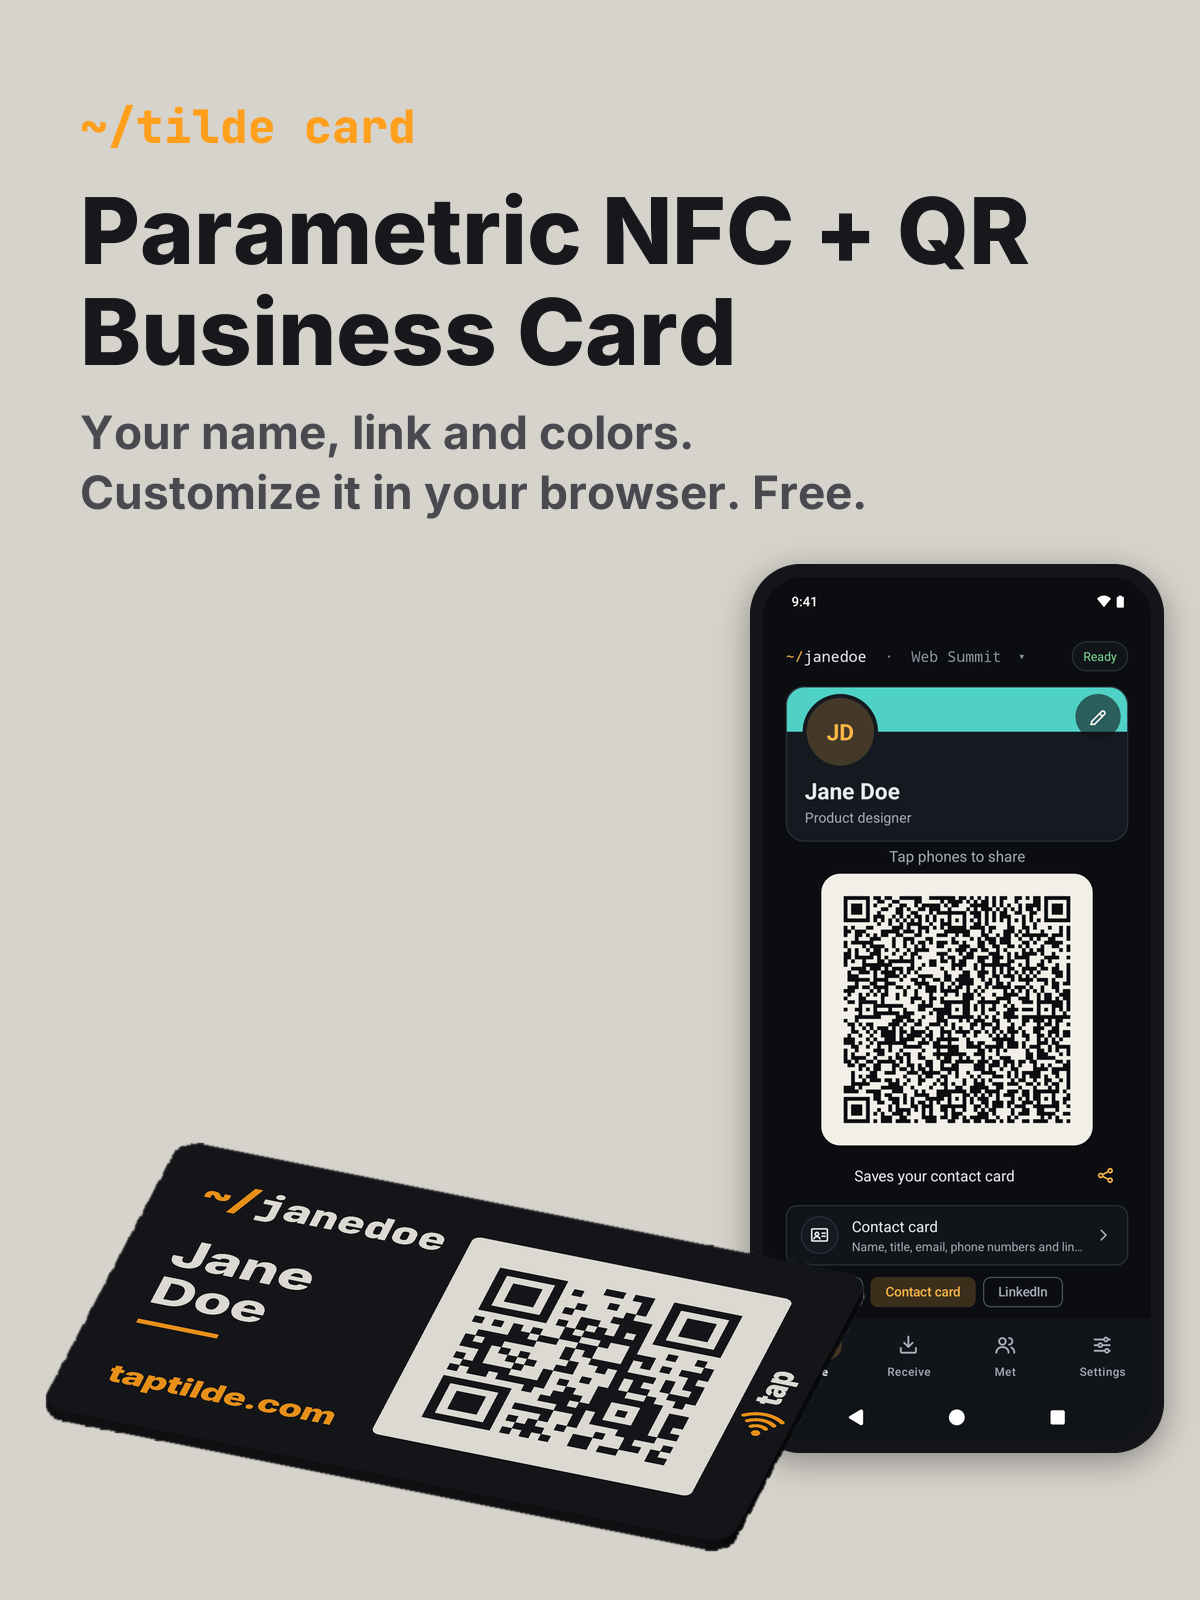
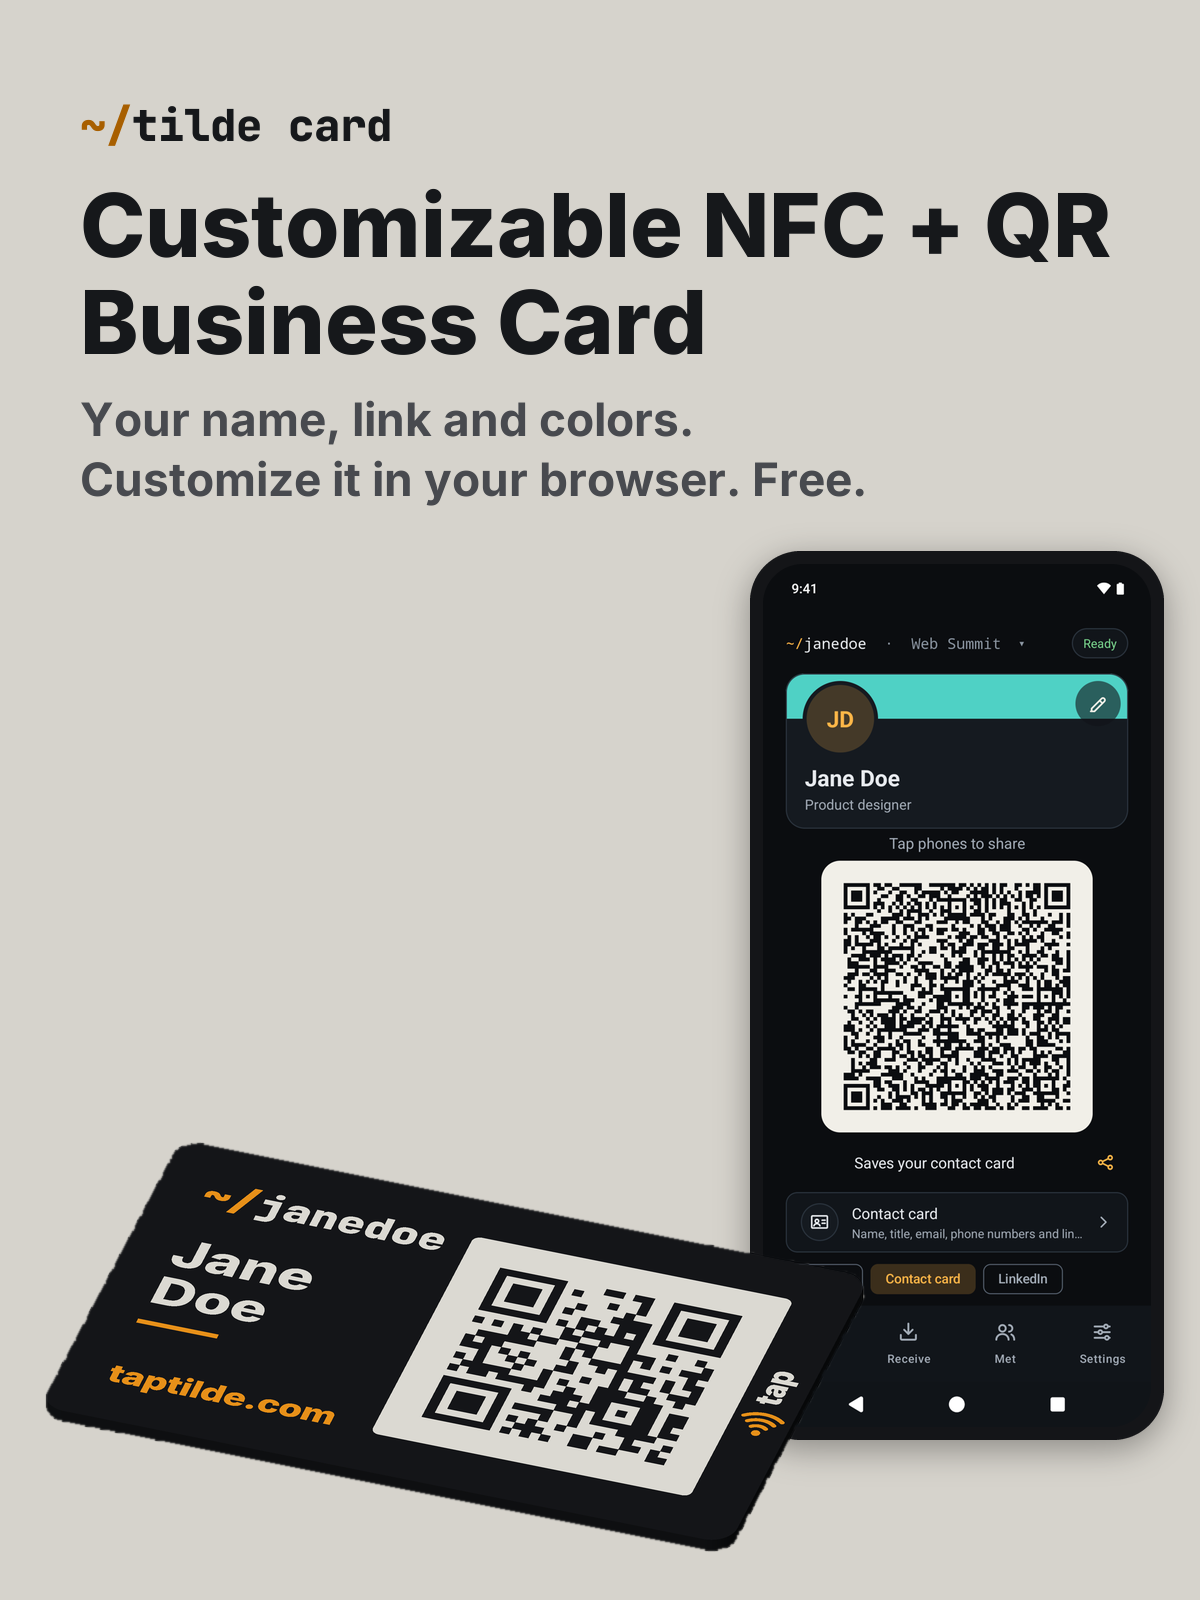
MakerWorld covers and pictures: "Customizable" and Tilde orange (D4, brand kit)
- Covers: the title says "Customizable NFC + QR Business Card" (D4) instead of
  "Parametric", and shrinks to fit its width. The ~/tilde card line uses the
  on-light wordmark (~/ in #a85f00, the name in ink) instead of the card's
  amber, which was 1.4:1 on the beige.
- 05-sticker.png: the step numbers are Tilde orange for light grounds (#a85f00,
  white digits) and the pocket outlines Tilde orange (#ffb547) on the dark
  card. The card's own colors in the renders are unchanged.
- make_listing_images.py: phone() also takes an image (for the video).

Changed region(s): [[0.0617, 0.0938, 0.9867, 0.9062], [0.0617, 0.0625, 0.37, 0.0938]]

diff --git a/scripts/make_covers.py b/scripts/make_covers.py
@@ -29,9 +29,10 @@ W, H = 1600, 1200
 BACKGROUND = (214, 211, 204)  # render_preview.py's background
 INK = (22, 24, 27)            # #16181b, the card's black
 SUBTLE = (72, 74, 79)         # the subtitle's dark gray
-AMBER = (255, 159, 28)        # #ff9f1c
-BRAND = "~/tilde card"
-TITLE = ["Parametric NFC + QR", "Business Card"]
+AMBER = (255, 159, 28)        # #ff9f1c, the card's filament amber (renders only)
+ORANGE_DEEP = (168, 95, 0)    # #a85f00, Tilde orange on light grounds (tilde-media/brand/BRAND.md)
+BRAND = ("~/", "tilde card")  # the on-light wordmark: ~/ in deep orange, the name in ink
+TITLE = ["Customizable NFC + QR", "Business Card"]
 SUBTITLE = ["Your name, link and colors.", "Customize it in your browser. Free."]
 
 # The phone, at scale 1: measured from the original cover (a 540 x 1200 screenshot shown at 0.8).
@@ -104,13 +105,18 @@ def place_card_cutout(cover, render, box, x, y, card_width):
     cover.paste(frame, (round(x - box[0] * scale), round(y - box[1] * scale)), mask)
 
 
-def draw_title(cover, x, y, title_size, subtitle_size, subtitle_lines):
-    """Brand line, title and subtitle from (x, y); returns the bottom of the block."""
+def draw_title(cover, x, y, title_size, subtitle_size, subtitle_lines, max_width=None):
+    """Brand line, title and subtitle from (x, y); returns the bottom of the block. The title
+    shrinks until its longest line fits `max_width` (default: the same margin as `x` on the right)."""
     draw = ImageDraw.Draw(cover)
+    max_width = max_width or cover.width - 2 * x
+    while max(font("Inter-ExtraBold.ttf", title_size).getlength(line) for line in TITLE) > max_width:
+        title_size -= 2
     brand = font("JetBrainsMono-ExtraBold.ttf", round(title_size * 0.5))
     title = font("Inter-ExtraBold.ttf", title_size)
     subtitle = font("Inter-Bold.ttf", subtitle_size)
-    draw.text((x, y), BRAND, font=brand, fill=AMBER)
+    draw.text((x, y), BRAND[0], font=brand, fill=ORANGE_DEEP)
+    draw.text((x + brand.getlength(BRAND[0]), y), BRAND[1], font=brand, fill=INK)
     y += round(title_size * 0.85)
     for line in TITLE:
         draw.text((x, y), line, font=title, fill=INK)
@@ -155,7 +161,7 @@ def main():
     height = round(card_h * width / card_w)
     place_card(cover, render, box, 56, H - 96 - height, width)
     place_phone(cover, 1088, 112, 0.98)
-    draw_title(cover, 72, 88, 80, 44, SUBTITLE)
+    draw_title(cover, 72, 88, 80, 44, SUBTITLE, max_width=1088 - 72 - 56)
     cover.save(OUT / "cover-card-app-title.png", optimize=True)
     for name in ["cover-card", "cover-card-app", "cover-card-title", "cover-card-app-title"]:
         print(f"wrote makerworld/images/covers/{name}.png")

diff --git a/scripts/make_listing_images.py b/scripts/make_listing_images.py
@@ -25,7 +25,10 @@ import trimesh
 from PIL import Image, ImageDraw, ImageFilter
 
 sys.path.insert(0, str(Path(__file__).resolve().parent))
-from make_covers import AMBER, BACKGROUND, BEZEL, FRAME, INK, PHONE, PHONE_R, SCREEN_R, SHADOW, SUBTLE, font, rounded_mask  # noqa: E402
+from make_covers import BACKGROUND, BEZEL, FRAME, INK, PHONE, PHONE_R, SCREEN_R, SHADOW, SUBTLE, font, rounded_mask  # noqa: E402
+
+ORANGE = (255, 181, 71)     # Tilde orange (#ffb547), for marks on the dark card (tilde-media/brand/BRAND.md)
+ORANGE_DEEP = (168, 95, 0)  # Tilde orange on light grounds (#a85f00)
 from render_preview import PARTS, SUPERSAMPLE, load_parts, projector, render  # noqa: E402
 
 ROOT = Path(__file__).resolve().parent.parent
@@ -121,20 +124,20 @@ def sticker(centre, z):
 
 
 def outline(draw, project, centre, d, z, dash=True):
-    """A dashed amber circle of diameter `d` at height z, in a render's supersampled pixels."""
+    """A dashed Tilde-orange circle of diameter `d` at height z, in a render's supersampled pixels."""
     t = np.linspace(0, 2 * np.pi, 121)
     pts = project(np.column_stack([centre[0] + d / 2 * np.cos(t), centre[1] + d / 2 * np.sin(t), np.full_like(t, z)]))
     width = 4 * SUPERSAMPLE
     for i in range(0, len(t) - 1, 2 if dash else 1):
-        draw.line([tuple(pts[i, :2]), tuple(pts[i + 1, :2])], fill=AMBER, width=width)
+        draw.line([tuple(pts[i, :2]), tuple(pts[i + 1, :2])], fill=ORANGE, width=width)
 
 
 def step_label(tile, number, text):
     draw = ImageDraw.Draw(tile)
     r = 30
-    draw.ellipse([40, 36, 40 + 2 * r, 36 + 2 * r], fill=AMBER)
+    draw.ellipse([40, 36, 40 + 2 * r, 36 + 2 * r], fill=ORANGE_DEEP)
     digit = font("Inter-ExtraBold.ttf", 36)
-    draw.text((40 + r, 36 + r), str(number), font=digit, fill=INK, anchor="mm")
+    draw.text((40 + r, 36 + r), str(number), font=digit, fill=(255, 255, 255), anchor="mm")
     draw.text((40 + 2 * r + 20, 36 + r), text, font=font("Inter-Bold.ttf", 38), fill=INK, anchor="lm")
 
 
@@ -201,7 +204,7 @@ def phone(canvas, screen, x, y, scale):
     canvas.paste(Image.new("RGB", canvas.size, (0, 0, 0)), (0, 0), shadow)
     body = Image.new("RGB", (w, h), FRAME)
     sw, sh = w - 2 * bezel, h - 2 * bezel
-    shot = Image.open(screen).convert("RGB").resize((sw, sh), Image.LANCZOS)
+    shot = (screen if isinstance(screen, Image.Image) else Image.open(screen)).convert("RGB").resize((sw, sh), Image.LANCZOS)
     body.paste(shot, (bezel, bezel), rounded_mask((sw, sh), SCREEN_R * scale))
     canvas.paste(body, (x, y), rounded_mask((w, h), PHONE_R * scale))
     return w, h
